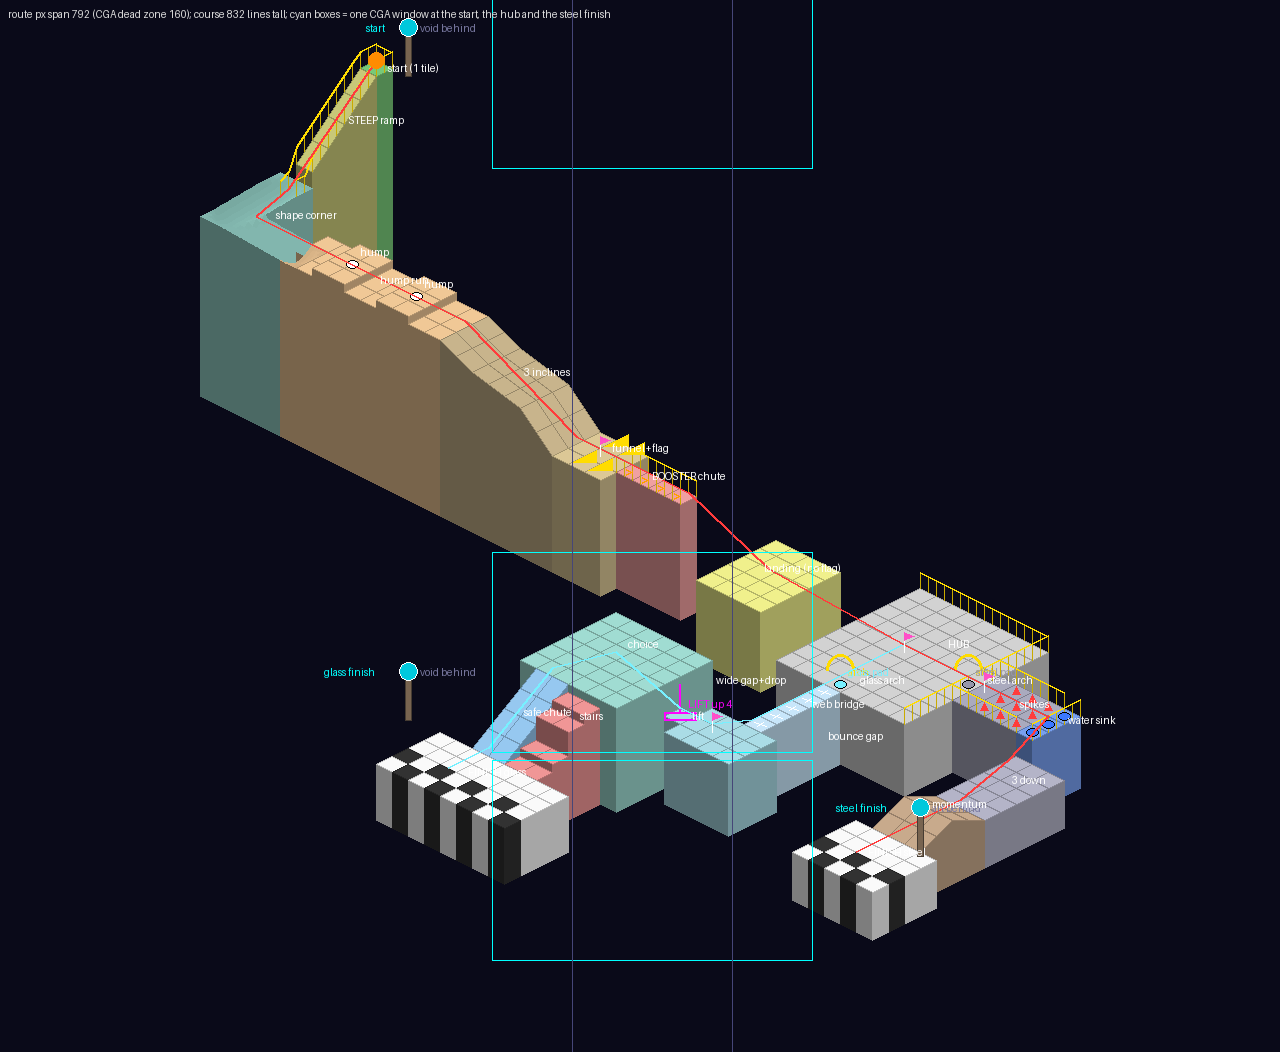
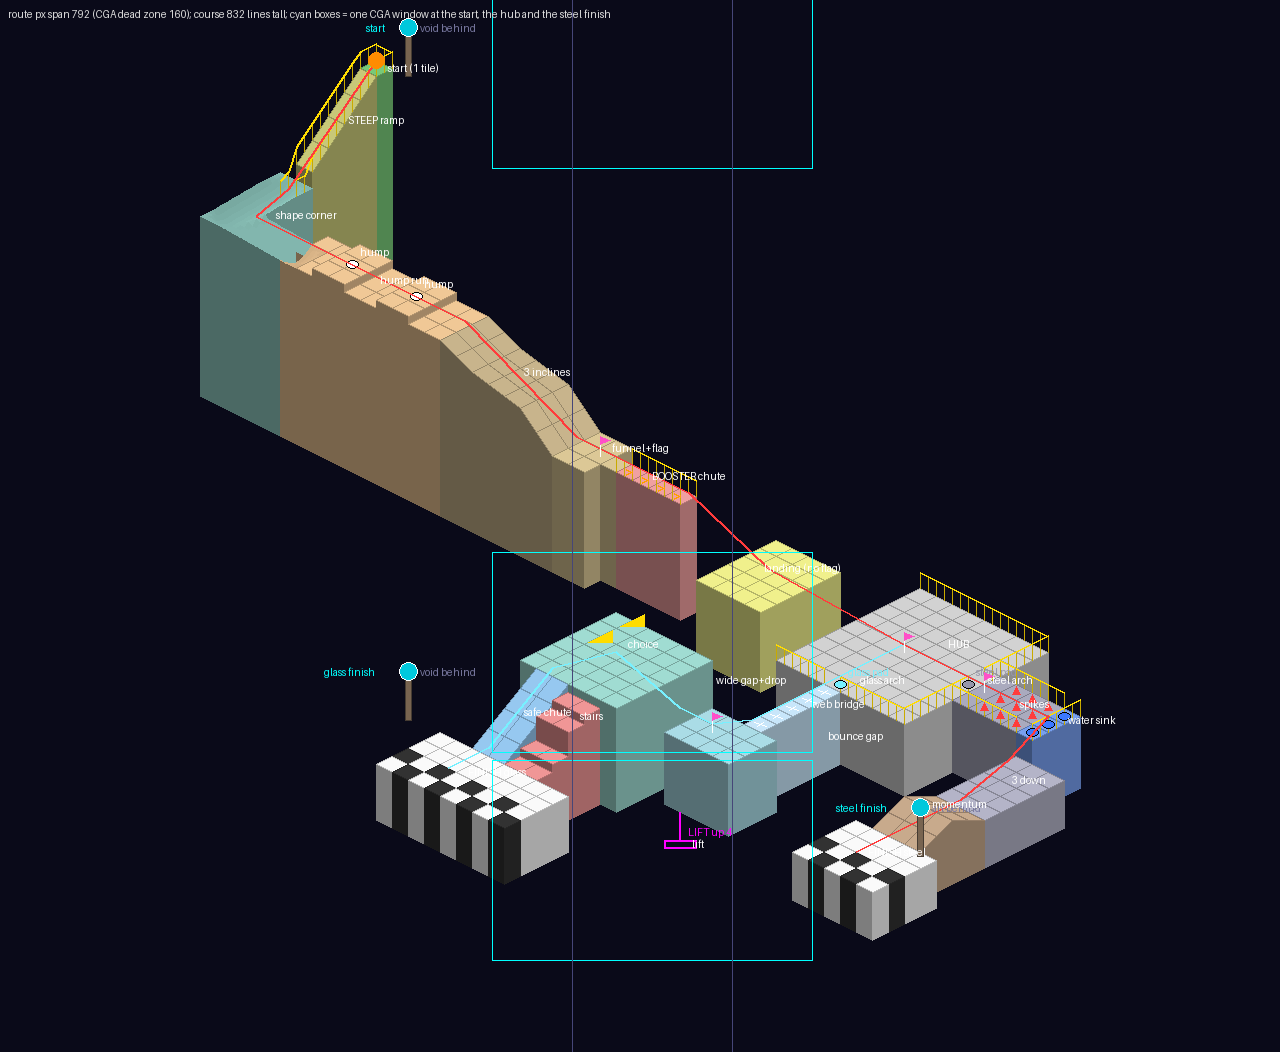
Bonanza: Downhill Decision in the engine, first build (down.bbc), on the BZDOWN=1 playtest knob's pad 2
Written by down/sketch.py from the pen-in; every check passes but the route
demo, which does not finish yet. The owner's rev-3 notes: no archways (a
pad at each exit), the glass bridge a membrane, a 3-wide line into a
funnel and flag 0 before the booster chute, no flag on the landing.

Claude-Session: https://claude.ai/code/session_01Wo8a4suEiDfFPFBsnHYKF3

diff --git a/docs/plans/bonanza-courses/down/sketch.py b/docs/plans/bonanza-courses/down/sketch.py
@@ -118,12 +118,12 @@ def mark(x, y, kind, text=""):
 # =============================================================================
 # 1. SPEED -------------------------------------------------------------------
 floor("A", 4, 4, 5, 5, Z)                                    # the start: ONE tile, guard rails round it
-rail(4, 4, 5, 4, "guard"); rail(4, 4, 4, 5, "guard"); rail(5, 4, 5, 5, "guard")
+rail(4, 4, 5, 4, "guard"); rail(4, 4, 4, 5); rail(5, 4, 5, 5)        # (the sides block rails: a guard may not touch the ramp)
 ramp("R", "y", 4, 5, 5, 10, Z, Z - 10)                       # a STEEP ramp, 2 units a tile (the most), railed
 rail(4, 5, 4, 10); rail(5, 5, 5, 10)
-chute("C", [(4, 10, Z - 10), (4, 13, Z - 10.5), (8, 13, Z - 11)], 1.25)   # the CORNER: a banked shape turns it +x
+chute("C", [(4, 11, Z - 10), (4, 13, Z - 10), (8, 13, Z - 11)], 1.0)   # the CORNER: a banked shape turns it +x
 floor("H", 8, 11, 18, 14, Z - 11)                            # the HUMP RUN, now 3 wide (rev 2), unguarded, along +x
-for hx in (10, 14):                                          # two humps, 2 long x 3 wide
+for hx in (12, 16):                                          # two humps, 2 long x 3 wide (clear of the corner)
     for x in range(hx, hx + 2):
         for y in (11, 12, 13):
             CELLS[(x, y)] = (Z - 10, Z - 10, Z - 10, Z - 10)
@@ -131,42 +131,42 @@ for hx in (10, 14):                                          # two humps, 2 long
 ramp("D", "x", 18, 11, 20, 14, Z - 11, Z - 13)               # the DESCENT, 3 wide: gentle - mild - steep
 ramp("D", "x", 20, 11, 23, 14, Z - 13, Z - 14.5)
 ramp("D", "x", 23, 11, 25, 14, Z - 14.5, Z - 18.5)
-floor("F", 25, 11, 28, 14, Z - 18.5)                         # the FUNNEL (rev 2): 3 x 3 flat, flag 0 in its middle;
-for x in (26, 27):                                           # its last two columns' outer rows DIAGONAL guides
-    mark(x + 0.5, 11.5, "guide", ""); mark(x + 0.5, 13.5, "guide", "")
+floor("F", 25, 11, 27, 14, Z - 18.5)                         # the FUNNEL (rev 2): 3 x 3 flat, flag 0 in its middle;
+floor("F", 27, 12, 28, 13, Z - 18.5)
+mark(27.5, 11.5, "guide", ""); mark(27.5, 13.5, "guide", "")  # its last column's outer cells: DIAGONAL guides (EXTRA)
 floor("B", 28, 12, 32, 13, Z - 18.5)                         # the BOOSTER CHUTE: 1 wide, block-railed, pads +x
-rail(28, 12, 32, 12); rail(28, 13, 32, 13)
-for x in range(28, 32):
+rail(28, 12, 32, 12); rail(28, 13, 29, 13); rail(29, 13, 32, 13, "guard")   # (its FRONT see-through: a block hid the pads)
+for x in range(29, 32):
     mark(x + 0.5, 12.5, "boost", "")
-floor("L", 35, 10, 39, 15, Z - 23)                           # a WIDE GAP (x 32 - 34) and a DROP onto L: easy,
+floor("L", 34, 10, 39, 15, Z - 23)                           # a WIDE GAP (x 32 - 33) and a DROP onto L: easy,
                                                              # unguarded, NO FLAG (a respawn there could never
                                                              # cross on); rubber BOUNCES on over a second gap
-floor("X", 42, 8, 50, 17, Z - 24)                            # the HUB, large and safe (x 39 - 41 the gap)
-rail(42, 8, 50, 8); rail(50, 8, 50, 12); rail(50, 13, 50, 17)
-# 2. THE SPLIT: two ARCHWAYS out of the hub - EAST over a STEEL pad, SOUTH over a GLASS pad (rev 2: swapped, so
-#    the glass leg's lift climbs up the screen in view)
-mark(49.5, 12.5, "arch", "arch"); mark(49.5, 12.5, "steel", "steel pad")
-mark(45.5, 16.5, "arch", "arch"); mark(45.5, 16.5, "glass", "glass pad")
+floor("X", 42, 8, 48, 17, Z - 24)                            # the HUB, large and safe (x 39 - 41 the gap; 6 wide: the width)
+rail(42, 8, 48, 8); rail(48, 8, 48, 12); rail(48, 13, 48, 17); rail(42, 17, 45, 17); rail(46, 17, 48, 17)
+# 2. THE SPLIT: two exits out of the hub - EAST a STEEL pad, SOUTH a GLASS pad (rev 2: swapped, so the glass
+#    leg's lift climbs up the screen in view; rev 3: no archways - a rubber ball that hops a pad dies on the
+#    spikes or the membrane, which introduces both)
+mark(47.5, 12.5, "steel", "steel pad")
+mark(45.5, 16.5, "glass", "glass pad")
 # 3a. STEEL (east, +x): SPIKES on the only path, a WATER SINK, MOMENTUM, the finish
-floor("S", 50, 11, 54, 14, Z - 24)
+floor("S", 48, 11, 52, 14, Z - 24)
 for y in range(11, 14):
-    for x in range(51, 54):
+    for x in range(49, 51):
         mark(x + 0.5, y + 0.5, "spike", "")
-rail(50, 11, 54, 11); rail(50, 14, 54, 14)
-floor("W", 54, 11, 55, 14, Z - 24)                           # the WATER column (3 units deep) across the path
+rail(48, 11, 53, 11); rail(48, 14, 52, 14)                     # (the north rail seals the water too)
+floor("W", 52, 11, 53, 14, Z - 24)                           # the WATER column (3 units deep) across the path
 for y in range(11, 14):
-    mark(54.5, y + 0.5, "water", "")
-rail(55, 11, 55, 14)                                         # a rail ON TOP past it: no Hop over the water
-floor("T", 54, 14, 57, 19, Z - 27)                           # steel sinks and rolls out of the front (+y) ARCH, 3 down
-ramp("M", "y", 54, 19, 57, 21, Z - 27, Z - 25)               # MOMENTUM: up 2 units and down
-ramp("M", "y", 54, 21, 57, 23, Z - 25, Z - 27)
-floor("G", 53, 23, 58, 27, Z - 27)                           # FINISH 1, steel (exit 0)
+    mark(52.5, y + 0.5, "water", "")
+rail(53, 11, 53, 14)                                         # a rail ON TOP past it: no Hop over the water
+floor("T", 52, 14, 55, 19, Z - 27)                           # steel sinks and rolls out of the front (+y) ARCH, 3 down
+floor("M", 52, 19, 55, 23, Z - 27)                           # MOMENTUM: a HUMP across the path (EXTRA), which steel
+mark(53.5, 20.5, "hump", "hump")                             #   crests with its speed (two ramps stacked too many records)
+floor("G", 51, 23, 56, 27, Z - 27)                           # FINISH 1, steel (exit 0)
 # 3b. GLASS (south, +y): a WEB BRIDGE, a LIFT climbing up the screen, then the CHOICE down the screen
-floor("K", 45, 17, 46, 22, Z - 24)                           # the WEB BRIDGE: 1 wide, thin cracked tiles over the void
+floor("K", 45, 17, 46, 22, Z - 24)                           # the WEB BRIDGE: 1 wide, a glass-only MEMBRANE over the void
 for y in range(17, 22):
     mark(45.5, y + 0.5, "crack", "")
 floor("P", 43, 22, 47, 25, Z - 24)                           # the bridge's landing
-floor("P", 42, 23, 43, 24, Z - 24)
 mark(42.5, 23.5, "lift", "LIFT up 4")                        # the LIFT, on P's west edge: it rises in FRONT of Q
 floor("Q", 36, 21, 42, 27, Z - 20)                           # the CHOICE plateau, behind the lift (its face in view)
 ramp("Y", "y", 37, 27, 39, 31, Z - 20, Z - 26)               # (left) a SAFE CHUTE down (a ramp sketched; a shape)
@@ -175,23 +175,53 @@ floor("Z", 39, 28, 41, 29, Z - 22)                           #   3-unit step in 
 floor("Z", 39, 29, 41, 30, Z - 25)                           #   then one more onto the finish, flush
 floor("Z", 39, 30, 41, 31, Z - 26)
 floor("V", 35, 31, 43, 35, Z - 26)                           # FINISH 2, glass (exit 1)
-GOAL = {(x, y) for x in range(53, 58) for y in range(25, 27)} | {(x, y) for x in range(35, 43) for y in range(33, 35)}
+GOAL = {(x, y) for x in range(51, 56) for y in range(25, 27)} | {(x, y) for x in range(35, 43) for y in range(33, 35)}
+
+# the PROPS the sketch does not model, as the engine's statements (world cells: sketch + OFF)
+def _w(x):
+    return x + OFF
+EXTRA = [
+    "# the funnel's diagonal guides: split cells, the floor's half inside, a wall's half outside (SPEC.md 130.24.4)",
+    "floor half left tile %d %d  flat %g" % (_w(27), _w(11), Z - 18.5),
+    "wall  half right tile %d %d  flat %g" % (_w(27), _w(11), Z - 16.5),
+    "floor half up tile %d %d  flat %g" % (_w(27), _w(13), Z - 18.5),
+    "wall  half down tile %d %d  flat %g" % (_w(27), _w(13), Z - 16.5),
+    "# the hump run's two humps: ridges across its 3 rows (the hump course's back hump's kind, SPEC.md 130.44)",
+    "hump %d %d %g along y 3 open height 8" % (_w(13), _w(11), Z - 11),
+    "hump %d %d %g along y 3 open height 8" % (_w(17), _w(11), Z - 11),
+    "# the BOOSTER chute's pads (SPEC.md 130.40)",
+] + ["prop boost %d %d face +x strength 40" % (_w(x), _w(12)) for x in range(29, 32)] + [   # (three: the first tile's block hid a fourth)
+    "# the split: a pad at each exit (no archways: a rubber ball that hops one dies on what follows)",
+    "pad steel %d %d" % (_w(47), _w(12)),
+    "pad glass %d %d" % (_w(45), _w(16)),
+    "# steel: SPIKES across the only path (SPEC.md 130.38), a WATER column 3 deep, out of its front ARCH",
+    "prop spikes %d %d %d %d" % (_w(49), _w(11), _w(51), _w(14)),      # (two rows: a spiked cell never touches water)
+    "water rect %d %d %d %d top %g bed %g" % (_w(52), _w(11), _w(53), _w(14), Z - 24, Z - 27),
+    "arch %d %d +y" % (_w(52), _w(13)),
+    "# glass: the MEMBRANE bridge, thin (glass-only, SPEC.md 130.38), and the LIFT (SPEC.md 130.12.6.4)",
+    "prop membrane %d %d %d %d" % (_w(45), _w(17), _w(46), _w(22)),
+    "prop platform %d %d 4" % (_w(42), _w(23)),
+    "# steel's MOMENTUM: a ridge hump across its 3-wide path, the tallest a hump may be (11 px)",
+    "hump %d %d %g along x 3 open height 11" % (_w(52), _w(21), Z - 27),
+]
+GOAL_RECTS = [(51, 25, 56, 27, Z - 27, 0, "steel"), (35, 33, 43, 35, Z - 26, 1, "glass")]
 
 START = (4.5, 4.5)
-FLAGS = [(26.5, 12.5, "flag 0"), (45.5, 12.5, "flag 1"), (50.5, 12.5, "flag 2"), (44.5, 23.5, "flag 3")]
-CLOCKS = [(6.5, 4.5, Z, "start", "block"), (58.5, 24.5, Z - 25.5, "steel finish", "block"),
+FLAGS = [(26.5, 12.5, "flag 0", "rubber"), (45.5, 12.5, "flag 1", "rubber"), (48.5, 12.5, "flag 2", "steel"),
+         (44.5, 23.5, "flag 3", "glass")]
+CLOCKS = [(6.5, 4.5, Z, "start", "block"), (56.5, 24.5, Z - 25.5, "steel finish", "block"),
           (34.5, 32.5, Z - 24.5, "glass finish", "block")]
 FRAMES = {}
 PLACED = {}
 SIGNS = []
 ROUTE = [(4.5, 4.5), (4.5, 10), (5, 12.5), (8, 12.5), (18, 12.5), (25, 12.5), (28, 12.5), (32, 12.5), (37, 12.5),
-         (45.5, 12.5), (50, 12.5), (54.5, 12.5), (54.5, 15), (55.5, 19), (55.5, 23), (55.5, 25.5)]
+         (45, 12.5), (48, 12.5), (52.5, 12.5), (52.5, 15), (53.5, 19), (53.5, 23), (53.5, 25.5)]
 ROUTE2 = [(45.5, 12.5), (45.5, 17), (45.5, 22), (44.5, 23.5), (42.5, 23.5), (39, 24), (38, 27), (38, 31), (38, 33.5)]
 LABELS = [(4.5, 4.5, "start (1 tile)"), (4.5, 7, "STEEP ramp"), (5, 12, "shape corner"), (12, 12.5, "hump run"),
           (21, 12.5, "3 inclines"), (26, 12, "funnel+flag"), (29, 12.5, "BOOSTER chute"), (33, 12.5, "wide gap+drop"),
-          (36, 12.5, "landing (no flag)"), (40, 12.5, "bounce gap"), (46, 11, "HUB"), (49.5, 12, "steel arch"),
-          (52, 12.5, "spikes"), (54.5, 12, "water sink"), (55, 16, "3 down"), (55, 21, "momentum"),
-          (55, 25, "FINISH steel"), (45.5, 16, "glass arch"), (45.5, 19, "web bridge"), (42.5, 23.5, "lift"),
+          (36, 12.5, "landing (no flag)"), (40, 12.5, "bounce gap"), (45, 11, "HUB"), (47.5, 12, "steel pad"),
+          (50, 12.5, "spikes"), (52.5, 12, "water sink"), (53, 16, "3 down"), (53, 21, "momentum"),
+          (53, 25, "FINISH steel"), (45.5, 16, "glass pad"), (45.5, 19, "web bridge"), (42.5, 23.5, "lift"),
           (38, 23, "choice"), (37.5, 29, "safe chute"), (40, 28, "stairs"), (38, 33, "FINISH glass")]
 
 # --- drawing ----------------------------------------------------------------
@@ -243,7 +273,7 @@ def plan(out):
                   "crack": (255, 255, 255), "lift": (255, 0, 255), "arch": (255, 220, 0), "hump": (255, 255, 255), "guide": (255, 220, 0)}[kind])
     for x, y, z, f in PLACED.values():
         d.ellipse([x * S - 7, y * S - 7, x * S + 7, y * S + 7], outline=(0, 255, 255), width=2)
-    for x, y, t in FLAGS:
+    for x, y, t, _b in FLAGS:
         d.polygon([(x * S, y * S - 8), (x * S + 10, y * S - 4), (x * S, y * S)], fill=(255, 80, 200))
     d.text((START[0] * S - 3, START[1] * S - 5), "S", fill=(255, 255, 255))
     for x, y, t in LABELS:
@@ -369,7 +399,7 @@ def iso(out):
         bx, by = Q(x + 0.5, y + 0.5, zat(x + 0.5, y + 0.5))
         for k in range(4):
             d.ellipse([bx - 7, by - 3 - 4 * k, bx + 7, by + 3 - 4 * k], outline=(255, 120, 0), width=2)
-    for x, y, t in FLAGS:
+    for x, y, t, _b in FLAGS:
         bx, by = Q(x, y, zat(x, y))
         d.line([bx, by, bx, by - 20], fill=(255, 255, 255))
         d.polygon([(bx, by - 20), (bx + 10, by - 16), (bx, by - 12)], fill=(255, 80, 200))
@@ -406,20 +436,18 @@ def route_len():
 # WALL tile on the void side of its edge, 2 units over the floor it guards.
 
 HEAD_TXT = """
-# Course 2, tutorial 2 (working name HOP; docs/plans/bonanza-courses/HOP.md): rubber, the Hop, rubber's "and
-# again", a spring.  Floating islands.  Written by docs/plans/bonanza-courses/hop/sketch.py --bbc while the
-# layout moves; edited by hand once it settles.
-course HOP "Little Hop"
+# Course 3 (DOWN; docs/plans/bonanza-courses/DOWN.md): DOWNHILL DECISION, the tutorial's reward - SPEED, then a
+# SPLIT where a pad converts the ball: STEEL east (spikes, a water sink) to exit 0, GLASS south (a membrane bridge,
+# a lift, a choice of stairs) to exit 1.  Written by docs/plans/bonanza-courses/down/sketch.py --bbc --force
+# while the layout moves.
+course DOWN "Downhill Decision"
 guide                     # a REAL course: held to the course guide's checkable rules
-width 128                 # the islands swing 30 tiles across, and a fall drifts 3 more each side (NEAR void): 1024 px, scrolled (G2)
-origin 528                # the reach's span centred in the 1024 px
-uses spring
+width 128
+origin 256                # the reach spans the 60 tiles 1024 px allow
+uses boost spike water
 ball rubber
-music littlehop           # its own song (2026-11-19): light and bouncy, its motif a Hop and an "and again"
-limit 60                  # the owner (2026-11-19): played naturally in 32 - 35 s; a training course, room to miss and retry (the autopilot: 25.6 s, the tool's 45)
-trap hop                  # NO TRAP presses the Hop and its "and again" too: the course is built on them (SPEC.md 130.14.4.1.1)
-palette 0                 # the owner: green, red, yellow - on black (non-black grounds are kept for special courses)
-target 30                 # the design class; the sheet aims at about 35 s
+music trial               # the owner: Bounce Trial, kept for course 3 (its speaker ring fix: spkring)
+target 60
 """
 
 
@@ -489,12 +517,15 @@ def bbc(out):
     for x0, y0, x1, y1, along, under in ARCHES:
         L.append("archway rect %d %d %d %d along %s under %g   # SPEC.md 130.39: a Hop passes under it"
                  % (x0 + OFF, y0 + OFF, x1 + OFF, y1 + OFF, along, under))
-    L.append("goal  rect %d %d %d %d  flat %g" % (min(g[0] for g in GOAL) + OFF, min(g[1] for g in GOAL) + OFF,
-                                               max(g[0] for g in GOAL) + 1 + OFF, max(g[1] for g in GOAL) + 1 + OFF,
-                                               CELLS[min(GOAL)][0]))
+    L.append("")
+    L += EXTRA
+    L.append("")
+    for x0, y0, x1, y1, gz, ex, what in GOAL_RECTS:
+        L.append("goal  rect %d %d %d %d  flat %g%s   # the %s finish" % (x0 + OFF, y0 + OFF, x1 + OFF, y1 + OFF, gz,
+                                                                   " exit %d" % ex if ex else "", what))
     L.append("start %d %d" % (int(START[0]) + OFF, int(START[1]) + OFF))
-    for x, y, t in FLAGS:
-        L.append("checkpoint %d %d ball rubber   # %s" % (int(x) + OFF, int(y) + OFF, t))
+    for x, y, t, ball in FLAGS:
+        L.append("checkpoint %d %d ball %s   # %s" % (int(x) + OFF, int(y) + OFF, ball, t))
     L.append("")
     L.append("# clocks (the owner's mark-ups): a tile level with the path one block out, or on top of a block")
     for x, y, z, name, kind in CLOCKS:
